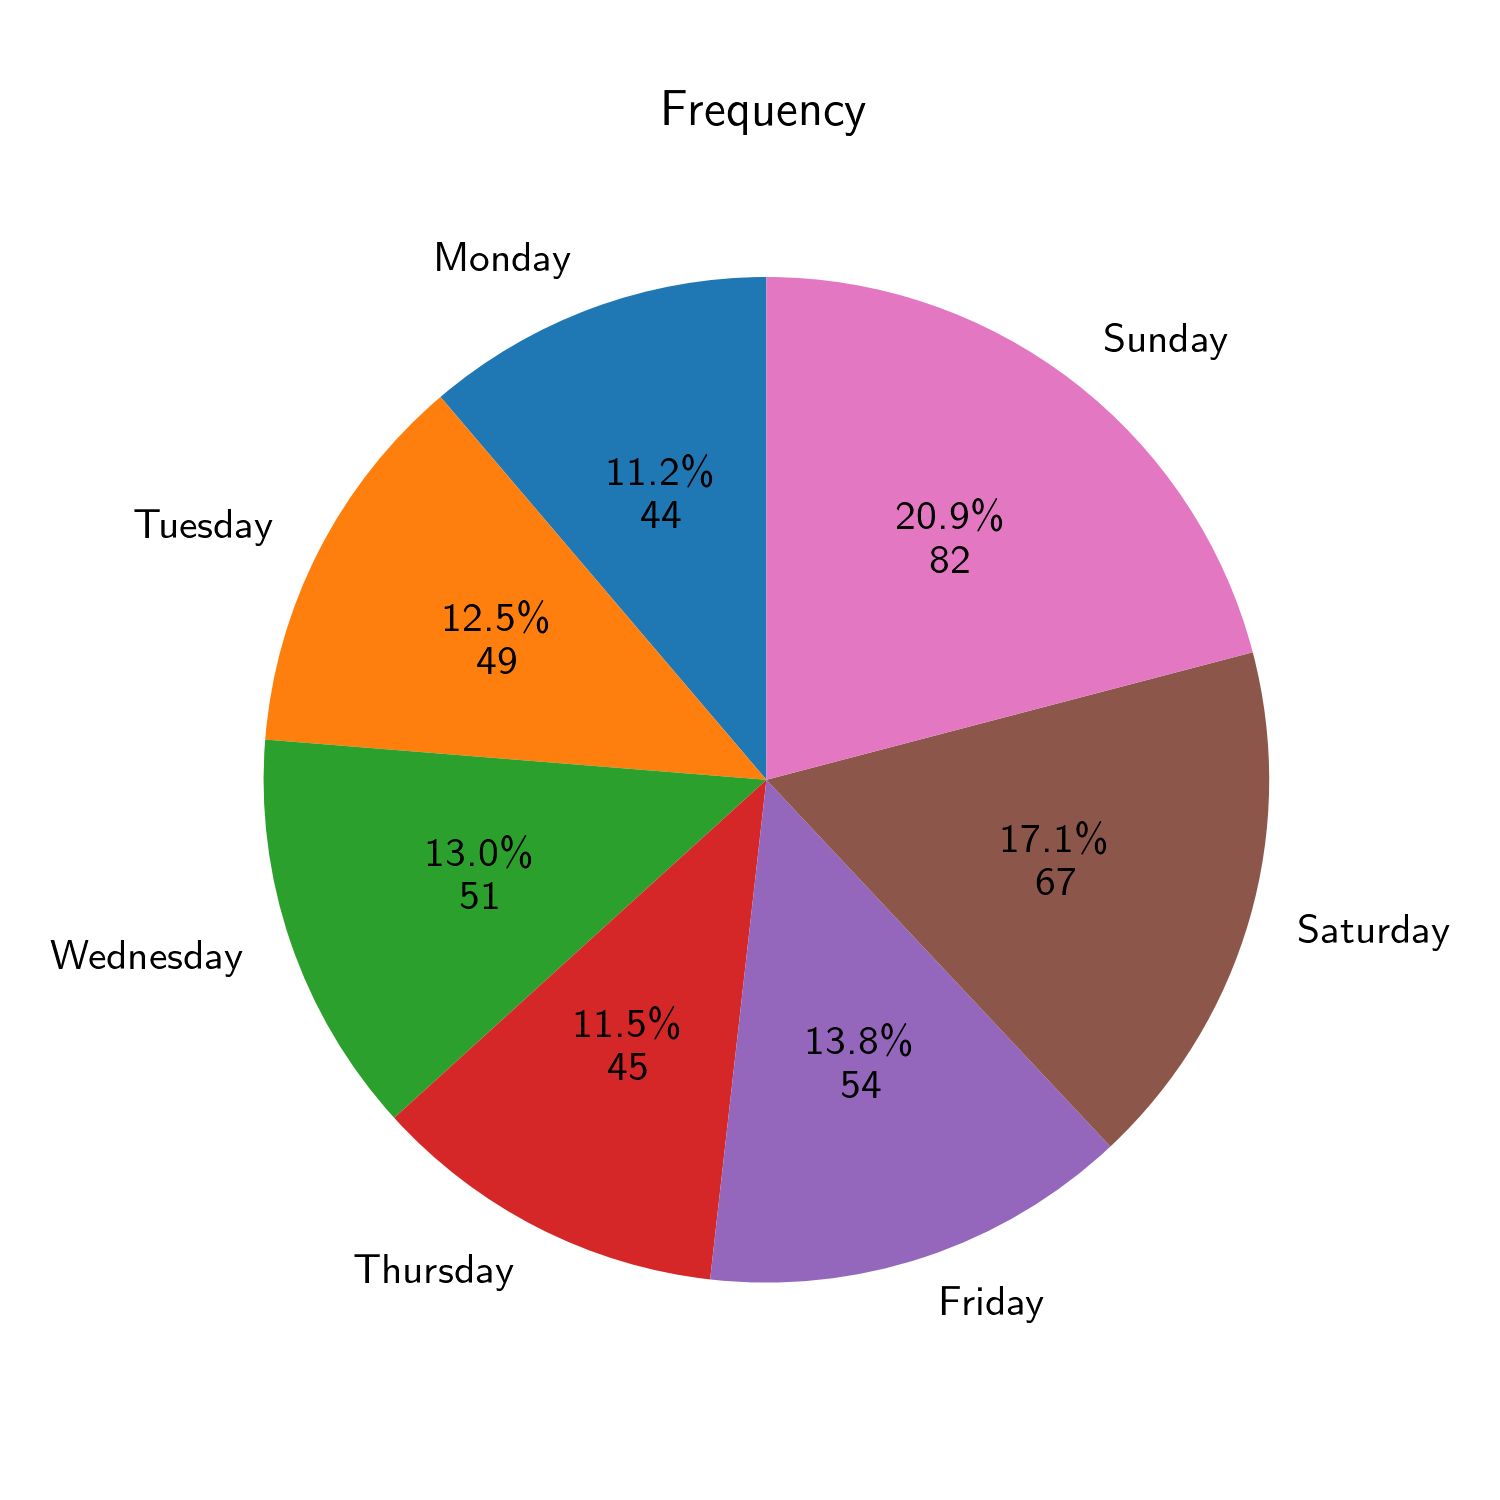
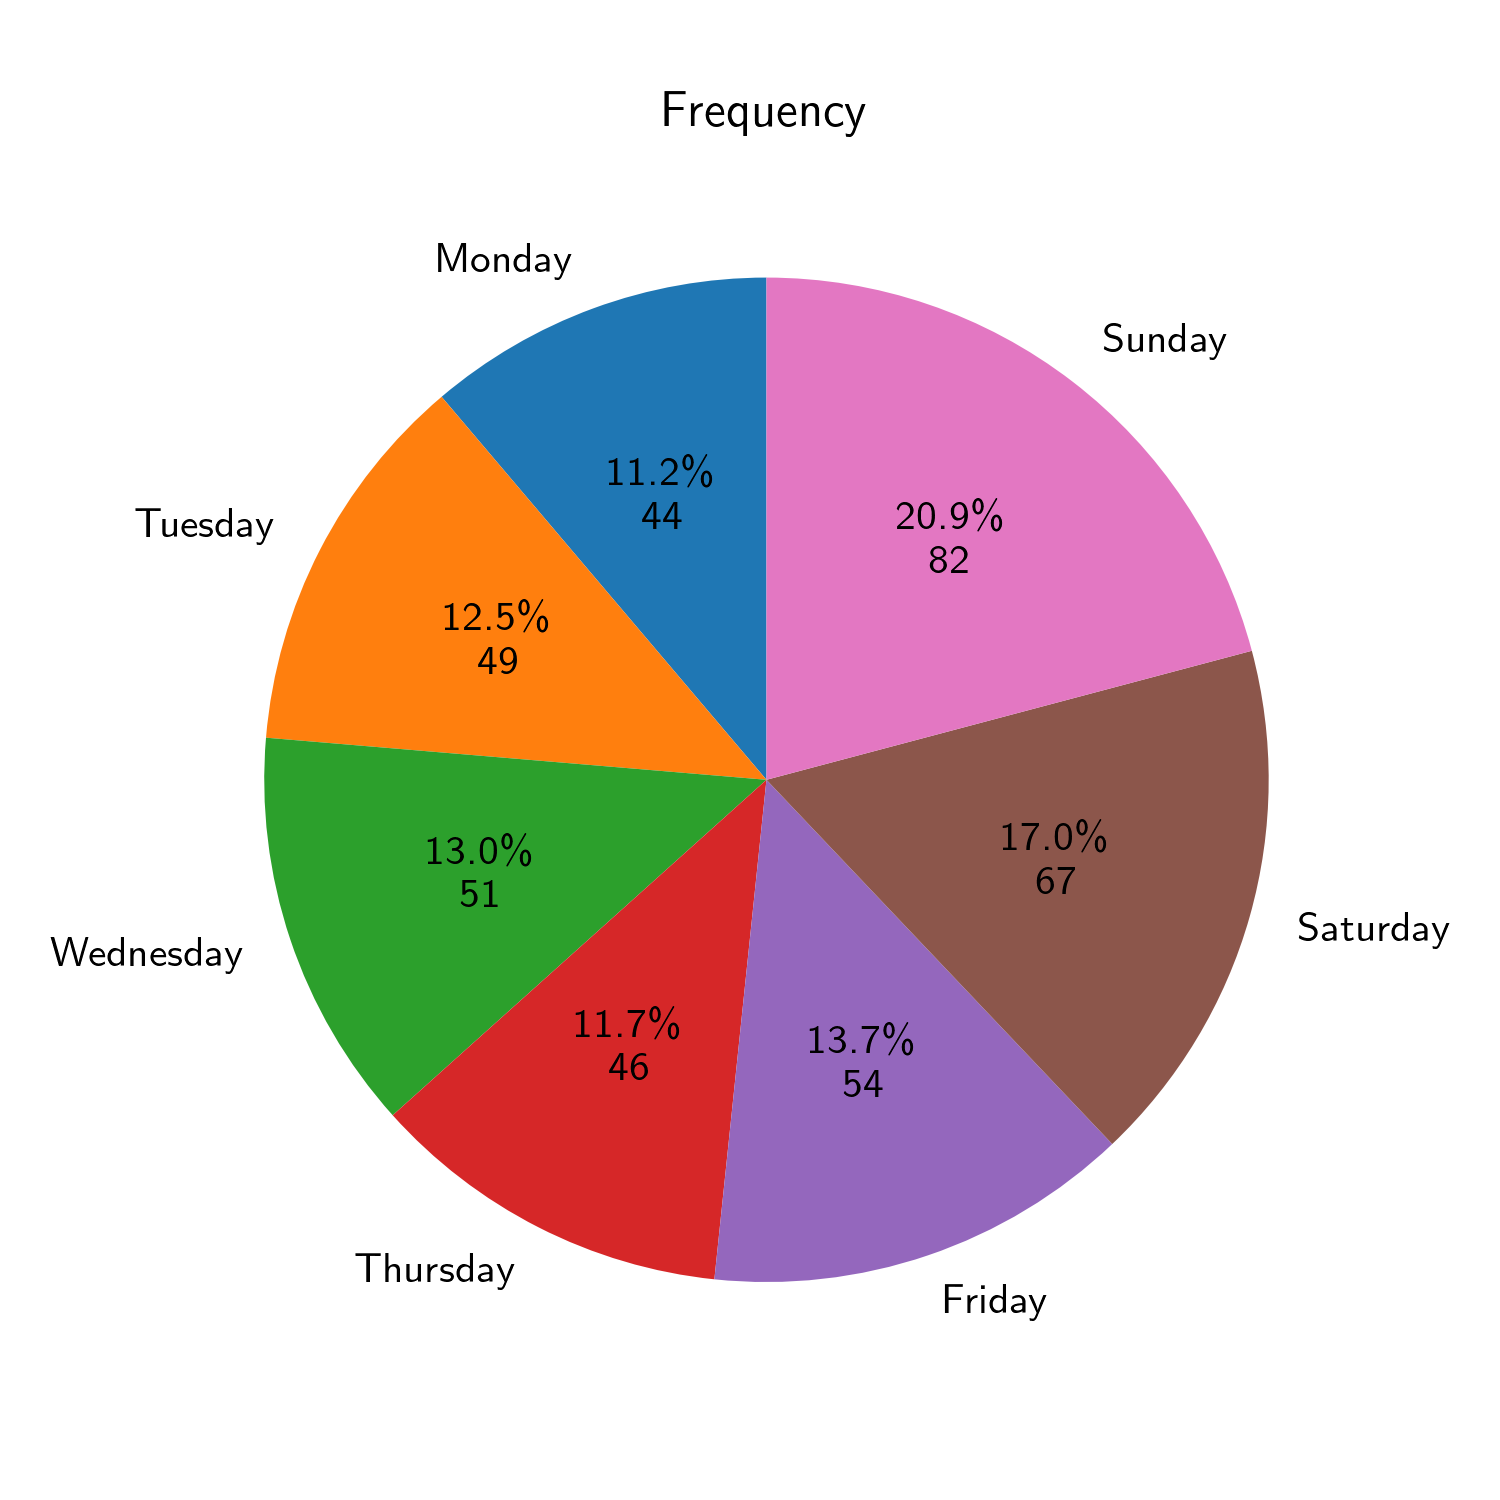
update data

diff --git a/README.md b/README.md
@@ -1,13 +1,13 @@
-last update: 24.09.2024, Tuesday, time: 13:43  
+last update: 26.09.2024, Thursday, time: 09:27  
 # Overview  
 || Whole | Half |  
 |---|---|---|  
-|Total $/ \textup{€}$|190.765 $\pm$ 54.592|109.109 $\pm$ 31.259|  
-|Ratio $/ \frac{\textup{€}}{\textup{h}}$| 4.515 $\pm$  0.798| 5.133 $\pm$  1.113|  
-|Cash $/ \textup{€}$|64.218 $\pm$ 35.584|43.969 $\pm$ 20.942|  
-|Cash $/ \\% $|41.689 $\pm$  8.305|44.187 $\pm$  9.738|  
-|Card $/ \textup{€}$|91.178 $\pm$ 51.778|56.559 $\pm$ 28.269|  
-|Card $/ \\% $|58.311 $\pm$  8.305|55.813 $\pm$  9.738|  
+|Total $/ \textup{€}$|190.695 $\pm$ 54.474|109.109 $\pm$ 31.259|  
+|Ratio $/ \frac{\textup{€}}{\textup{h}}$| 4.512 $\pm$  0.798| 5.133 $\pm$  1.113|  
+|Cash $/ \textup{€}$|64.146 $\pm$ 35.517|43.969 $\pm$ 20.942|  
+|Cash $/ \\% $|41.612 $\pm$  8.347|44.187 $\pm$  9.738|  
+|Card $/ \textup{€}$|91.345 $\pm$ 51.716|56.559 $\pm$ 28.269|  
+|Card $/ \\% $|58.388 $\pm$  8.347|55.813 $\pm$  9.738|  
 # Frequency  
     
 ![Image](./png/frequency.png)  
@@ -55,8 +55,8 @@ last update: 24.09.2024, Tuesday, time: 13:43
 ||Ratio $/ \frac{\textup{€}}{\textup{h}}$|  4.33 $\pm$  0.81|  4.96 $\pm$  1.07|  
 |Wednesday|Total $/ \textup{€}$|165.75 $\pm$ 29.98| 93.17 $\pm$ 20.39|  
 ||Ratio $/ \frac{\textup{€}}{\textup{h}}$|  4.53 $\pm$  0.76|  5.10 $\pm$  1.05|  
-|Thursday|Total $/ \textup{€}$|150.14 $\pm$ 41.33| 88.16 $\pm$ 18.70|  
-||Ratio $/ \frac{\textup{€}}{\textup{h}}$|  4.13 $\pm$  0.67|  4.76 $\pm$  0.98|  
+|Thursday|Total $/ \textup{€}$|151.05 $\pm$ 40.87| 88.16 $\pm$ 18.70|  
+||Ratio $/ \frac{\textup{€}}{\textup{h}}$|  4.11 $\pm$  0.66|  4.76 $\pm$  0.98|  
 |Friday|Total $/ \textup{€}$|191.53 $\pm$ 34.00|104.48 $\pm$ 25.23|  
 ||Ratio $/ \frac{\textup{€}}{\textup{h}}$|  4.37 $\pm$  0.73|  4.96 $\pm$  1.14|  
 |Saturday|Total $/ \textup{€}$|221.68 $\pm$ 41.11|116.06 $\pm$ 31.65|  
@@ -68,8 +68,8 @@ Special: Holidays and Weekends
 ## Whole day  
 ||Total $/ \textup{€}$|Ratio $/ \frac{\textup{€}}{\textup{h}}$|Count|  
 |---|---|---|---|  
-|All|190.76 $\pm$ 54.59|  4.52 $\pm$  0.80|214  
-|Normal|164.38 $\pm$ 38.42|  4.31 $\pm$  0.76|138  
+|All|190.69 $\pm$ 54.47|  4.51 $\pm$  0.80|215  
+|Normal|164.46 $\pm$ 38.29|  4.31 $\pm$  0.76|139  
 |Weekend|238.68 $\pm$ 46.39|  4.89 $\pm$  0.72|76  
 |Holiday|182.27 $\pm$ 54.25|  4.44 $\pm$  0.83|62  
 |Special|210.73 $\pm$ 58.68|  4.66 $\pm$  0.81|119  
